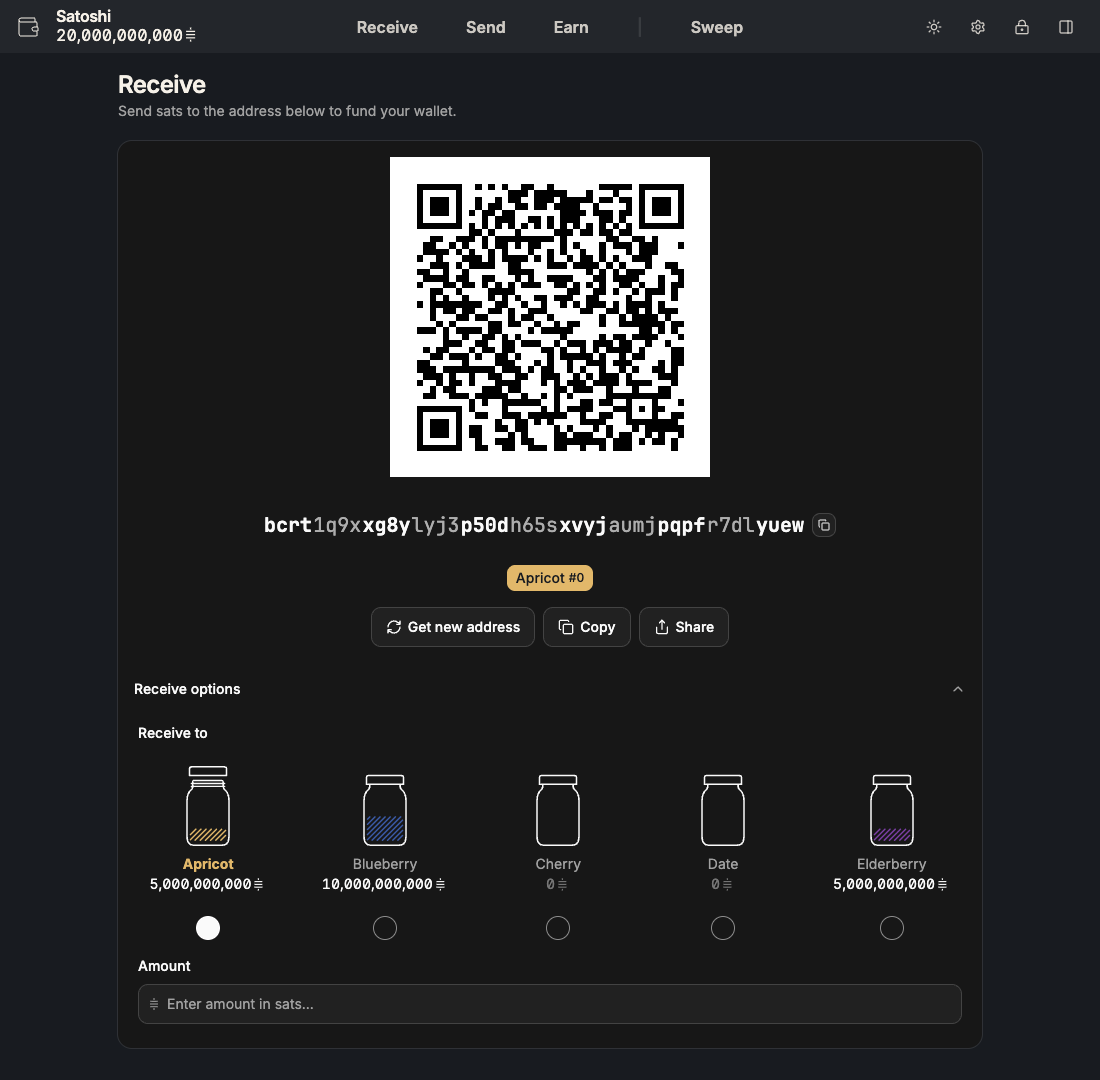
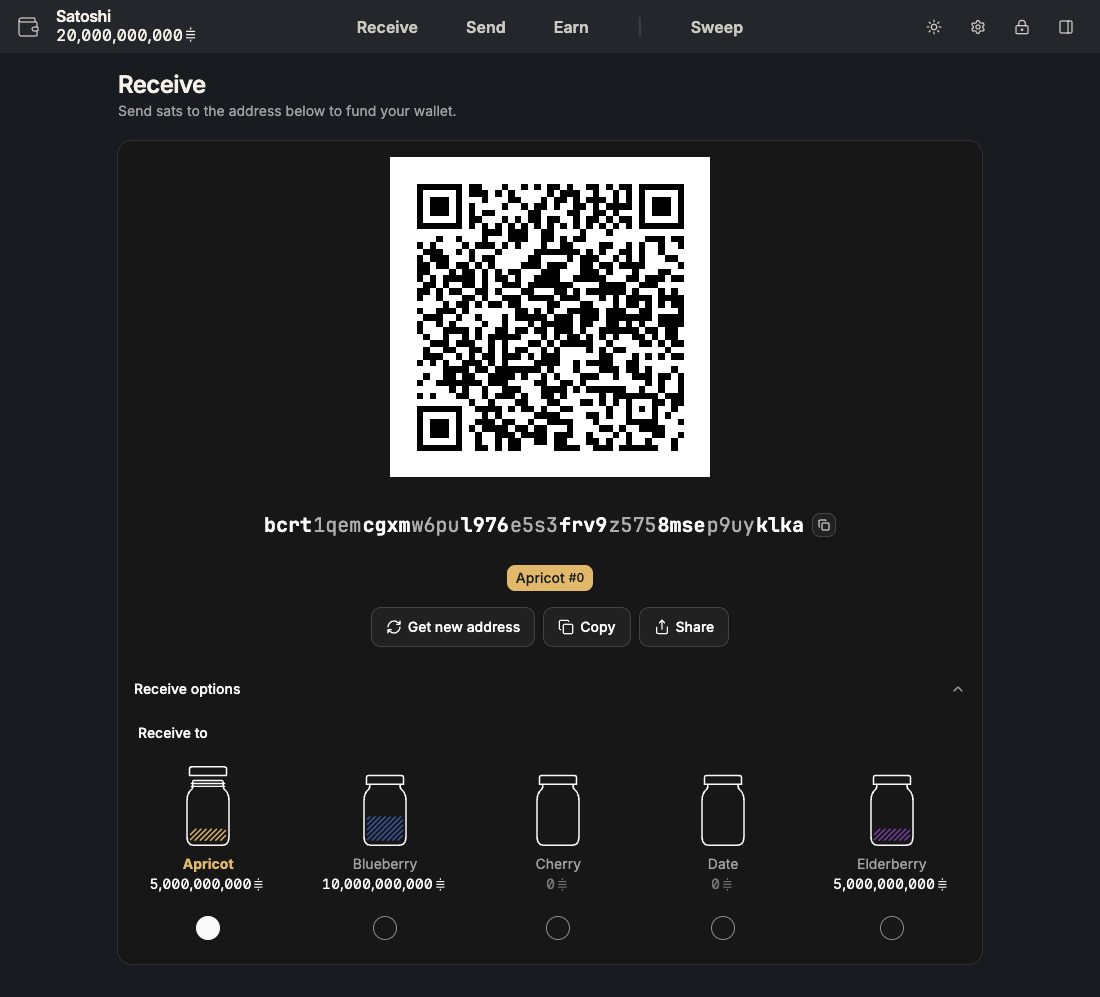
docs(receive): drop amount field removed in jam#1529

diff --git a/docs/interface/01-receive.md b/docs/interface/01-receive.md
@@ -19,10 +19,6 @@ else, or send funds from another wallet yourself.
 To receive to a specific jar, open 'Receive options' and select it under
 'Receive to'. The badge below the address shows which jar it belongs to.
 
-If you enter an amount (in sats), the QR code becomes a BIP21 payment request.
-'Copy' and 'Share' then hand out the full payment request instead of just the
-address.
-
 Once you have funded your wallet, you can use the 'Send' tab to do
 a collaborative transaction.
 
